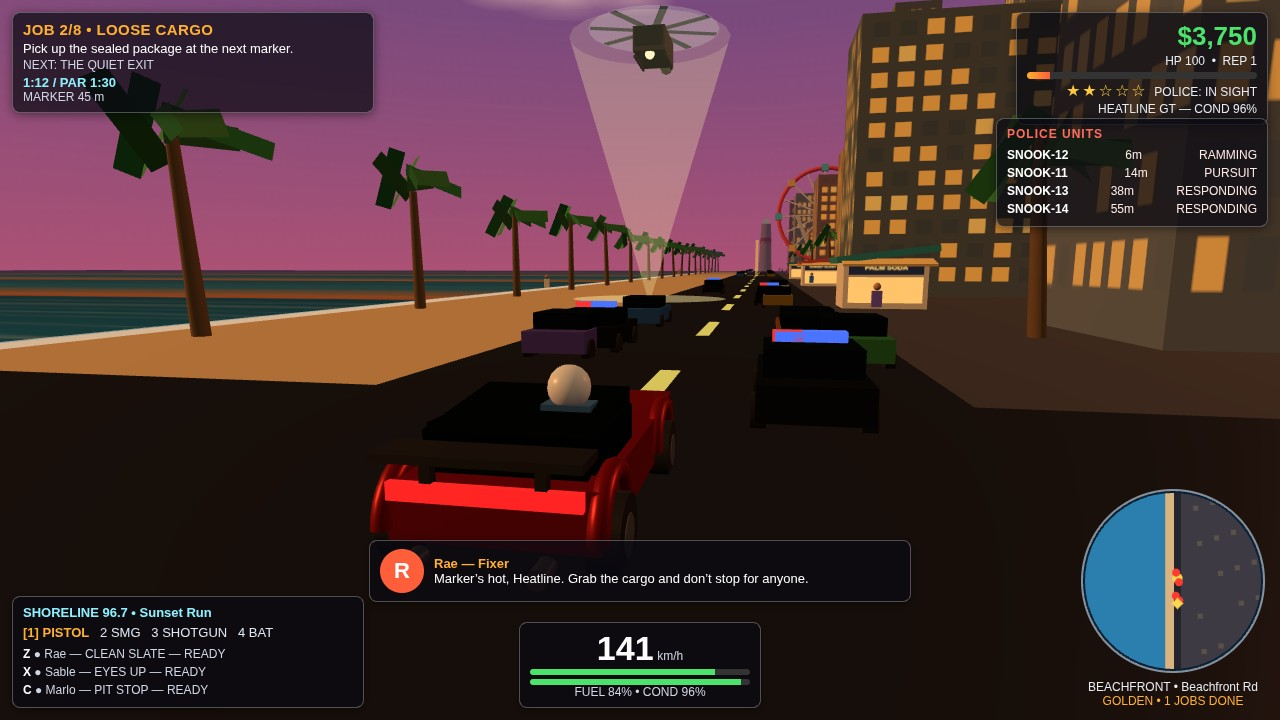
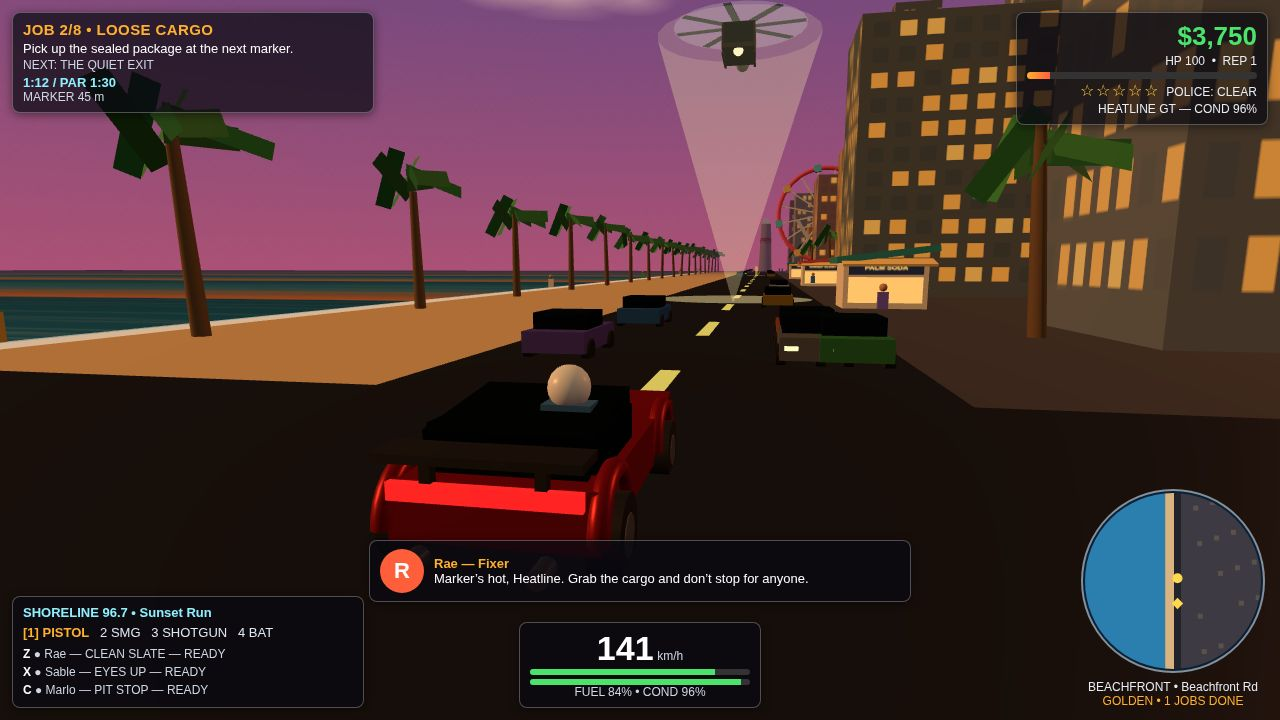
Kanbara Guard v1.0 — BSC transaction guard (Cloudflare Worker)

diff --git a/game/src/shots.js b/game/src/shots.js
@@ -73,7 +73,9 @@ export function applyShot(G, name) {
     });
     // SKY-1 large in the upper sky with cone + pool, never clipped:
     // y=18 keeps the rotor inside the chase camera's top edge.
-    const heliDist = 42, heliLat = 6;
+    // Play shot: heli dead ahead over the road centre so the pool lands
+    // visibly on the road; chase keeps the offset orbit (QA-passed).
+    const heliDist = 42, heliLat = name === 'play' ? 0 : 6;
     const hFwd = Math.sqrt(Math.max(1, heliDist * heliDist - heliLat * heliLat));
     G.heli.position.set(cp.x + f.x * hFwd - r.x * heliLat, 18, cp.z + f.z * hFwd - r.z * heliLat);
     G.heli.visible = true;
@@ -86,24 +88,24 @@ export function applyShot(G, name) {
     G.traffic[2].rotation.y = G.car.rotation.y; G.traffic[2].visible = true;
     if (s.drift) showPopup(s.drift, true);
   } else if (name === 'mission') {
-    // On foot in the container yard, facing the three enemies.
-    // Player + camera BOTH inside the open band z 140..146 (between the
-    // z=138 and z=148 container rows), on the x=136 lane that is clear in
-    // the z=148 row. Earlier spots put the camera south of a container row
-    // and the yard read as two walls with floating health bars.
-    G.player.position.set(136, 0, 144.5); G.player.rotation.y = Math.PI; // face north into the yard
+    // On foot in the container yard, facing WEST into the sunset: player
+    // east of the fight lane, camera behind the player (east) looking west,
+    // so the sunset sky + glow over the city read behind the enemies.
+    // 1 LIVE enemy (health bar) + 2 DOWNED (no bar, bodies on the ground)
+    // so TARGETS 2/3 matches the frame: 2 eliminated, 1 standing.
+    G.player.position.set(140, 0, 144.5); G.player.rotation.y = -Math.PI / 2; // face west
     G.player.visible = true; G.car.visible = false;
-    G.forward = { x: 0, z: -1 }; G.right = { x: 1, z: 0 };
-    G.camera.position.set(136, 3.0, 151);
-    G.camera.lookAt(136, 1.0, 141);
-    const spots = [[131, 142, 100, false], [133.5, 141, 0, true], [141, 142, 55, false]];
+    G.forward = { x: -1, z: 0 }; G.right = { x: 0, z: 1 };
+    G.camera.position.set(146.5, 3.0, 144.5);
+    G.camera.lookAt(135, 1.0, 144.5);
+    const spots = [[130.5, 140.5, 0, true], [132, 143, 100, false], [131, 145.0, 0, true]];
     G.enemies.forEach((e, i) => {
       const [x, z, hp, down] = spots[i];
       e.group.position.set(x, 0, z);
       e.group.visible = true;
       e.hp = hp; e.down = down;
       e.group.rotation.z = down ? Math.PI / 2 : 0;
-      e.group.rotation.y = Math.PI;
+      e.group.rotation.y = Math.PI / 2; // face east, toward the player
     });
     // Pistol in hand + frozen muzzle flash starburst at the barrel tip.
     G.flash.visible = true; G.flashFrozen = true;

diff --git a/game/src/main.js b/game/src/main.js
@@ -403,8 +403,12 @@ function animate() {
       camera.position.set(cp.x - f.x * 6.5 + r.x * 2.2, 2.7, cp.z - f.z * 6.5 + r.z * 2.2);
       camera.lookAt(cp.x + f.x * 5, 1.0, cp.z + f.z * 5);
     } else if (G.mode === 'foot') {
-      camera.position.set(player.position.x, 3.0, player.position.z + 6.5);
-      camera.lookAt(136, 1.0, 141);
+      // Camera behind the player along their facing, looking past them at
+      // the fight: follows the staged facing (west for the mission shot),
+      // not a fixed compass point.
+      const f = { x: Math.sin(player.rotation.y), z: Math.cos(player.rotation.y) };
+      camera.position.set(player.position.x - f.x * 6.5, 3.4, player.position.z - f.z * 6.5);
+      camera.lookAt(player.position.x + f.x * 5, 1.8, player.position.z + f.z * 5);
     }
     // Staged frames keep the staged timer: elapsed frozen at the table value.
     state.elapsed = G.staged.elapsed;
@@ -457,6 +461,7 @@ function animate() {
   const v = new THREE.Vector3();
   for (const e of enemies) {
     if (!e.group.visible) { e.bar.style.display = 'none'; continue; }
+    if (e.down) { e.bar.style.display = 'none'; continue; } // downed: body only, no bar
     v.set(e.group.position.x, 2.3, e.group.position.z).project(camera);
     if (v.z > 1) { e.bar.style.display = 'none'; continue; }
     e.bar.style.display = 'block';

diff --git a/game/src/world.js b/game/src/world.js
@@ -280,14 +280,14 @@ export function buildWorld(scene) {
   yard.position.set(0, 0, 0); scene.add(yard);
   out.yardCenter = new THREE.Vector3(136, 0, 147);
 
-  // Mission marker: small glowing disc + modest vertical beam.
+  // Mission marker: small glowing disc + short modest beam (not a pillar).
   const marker = new THREE.Group();
   const discM = new THREE.Mesh(new THREE.CircleGeometry(2.2, 24),
     new THREE.MeshBasicMaterial({ color: 0xffd94d, transparent: true, opacity: 0.85 }));
   discM.rotation.x = -Math.PI / 2; discM.position.y = 0.25; marker.add(discM);
-  const beam = new THREE.Mesh(new THREE.CylinderGeometry(0.35, 0.35, 9, 12, 1, true),
-    new THREE.MeshBasicMaterial({ color: 0xffd94d, transparent: true, opacity: 0.3, side: THREE.DoubleSide, depthWrite: false }));
-  beam.position.y = 4.5; marker.add(beam);
+  const beam = new THREE.Mesh(new THREE.CylinderGeometry(0.3, 0.3, 2.5, 12, 1, true),
+    new THREE.MeshBasicMaterial({ color: 0xffd94d, transparent: true, opacity: 0.35, side: THREE.DoubleSide, depthWrite: false }));
+  beam.position.y = 1.25; marker.add(beam);
   scene.add(marker);
   out.marker = marker;
 

diff --git a/game/src/config.js b/game/src/config.js
@@ -40,16 +40,11 @@ export const STAGES = {
     mode: 'wide', camNote: 'wide high establishing',
   },
   play: {
-    job: 2, cash: 3750, rep: 1, jobsDone: 1, wanted: 2, elapsed: 72, par: 90,
+    job: 2, cash: 3750, rep: 1, jobsDone: 1, wanted: 0, elapsed: 72, par: 90,
     speed: 141, fuel: 84, cond: 96, district: 'BEACHFRONT • Beachfront Rd',
     tod: 'GOLDEN', dialogue: { who: 'Rae — Fixer', init: 'R', text: 'Marker’s hot, Heatline. Grab the cargo and don’t stop for anyone.' },
     targets: null, drift: null, onFoot: false, mode: 'chase34',
-    police: [
-      { call: 'SNOOK-12', d: 6, status: 'RAMMING' },
-      { call: 'SNOOK-11', d: 14, status: 'PURSUIT' },
-      { call: 'SNOOK-13', d: 38, status: 'RESPONDING' },
-      { call: 'SNOOK-14', d: 55, status: 'RESPONDING' },
-    ],
+    police: [],
   },
   chase: {
     job: 5, cash: 13200, rep: 5, jobsDone: 4, wanted: 3, elapsed: 129, par: 150,
